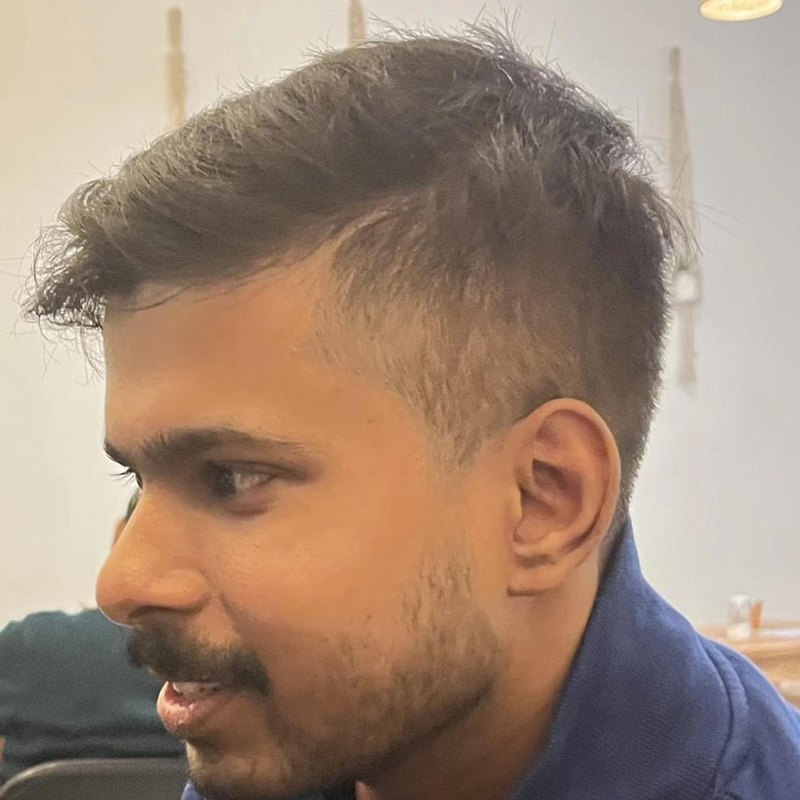
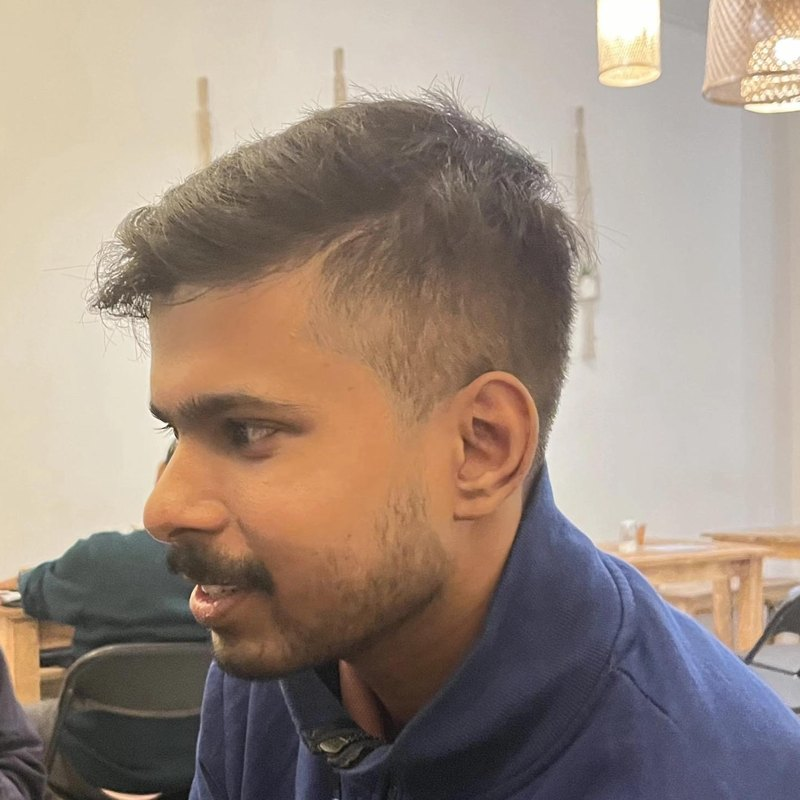
Zoom out portrait so the full head fits the circle

diff --git a/index.html b/index.html
@@ -178,7 +178,7 @@ a:hover{color:var(--text)}
 .icon-pill span{width:32px;height:32px;display:grid;place-items:center;border-radius:9999px;background:rgba(255,240,225,.06);font-size:16px;color:var(--text)}
 .hero .sub{margin-top:var(--s-300);color:rgba(247,241,232,.82);max-width:480px}
 .who{display:inline-flex;align-items:center;gap:var(--s-100);padding:var(--s-50) var(--s-300) var(--s-50) var(--s-50);margin-bottom:var(--s-300);border-radius:9999px;border:1px solid var(--line);background:rgba(19,18,9,.5);backdrop-filter:blur(12px);-webkit-backdrop-filter:blur(12px)}
-.who img{width:64px;height:64px;border-radius:9999px;object-fit:cover;object-position:50% 35%;box-shadow:0 0 0 2px var(--ember)}
+.who img{width:64px;height:64px;border-radius:9999px;object-fit:cover;object-position:50% 50%;box-shadow:0 0 0 2px var(--ember)}
 .who .caption-5{color:var(--muted)}
 .hero-in>*:nth-child(4){animation-delay:360ms}
 .email-pill{display:flex;align-items:center;gap:var(--s-75);margin-top:var(--s-400);max-width:440px;padding:var(--s-50) var(--s-50) var(--s-50) var(--s-200);border-radius:9999px;
